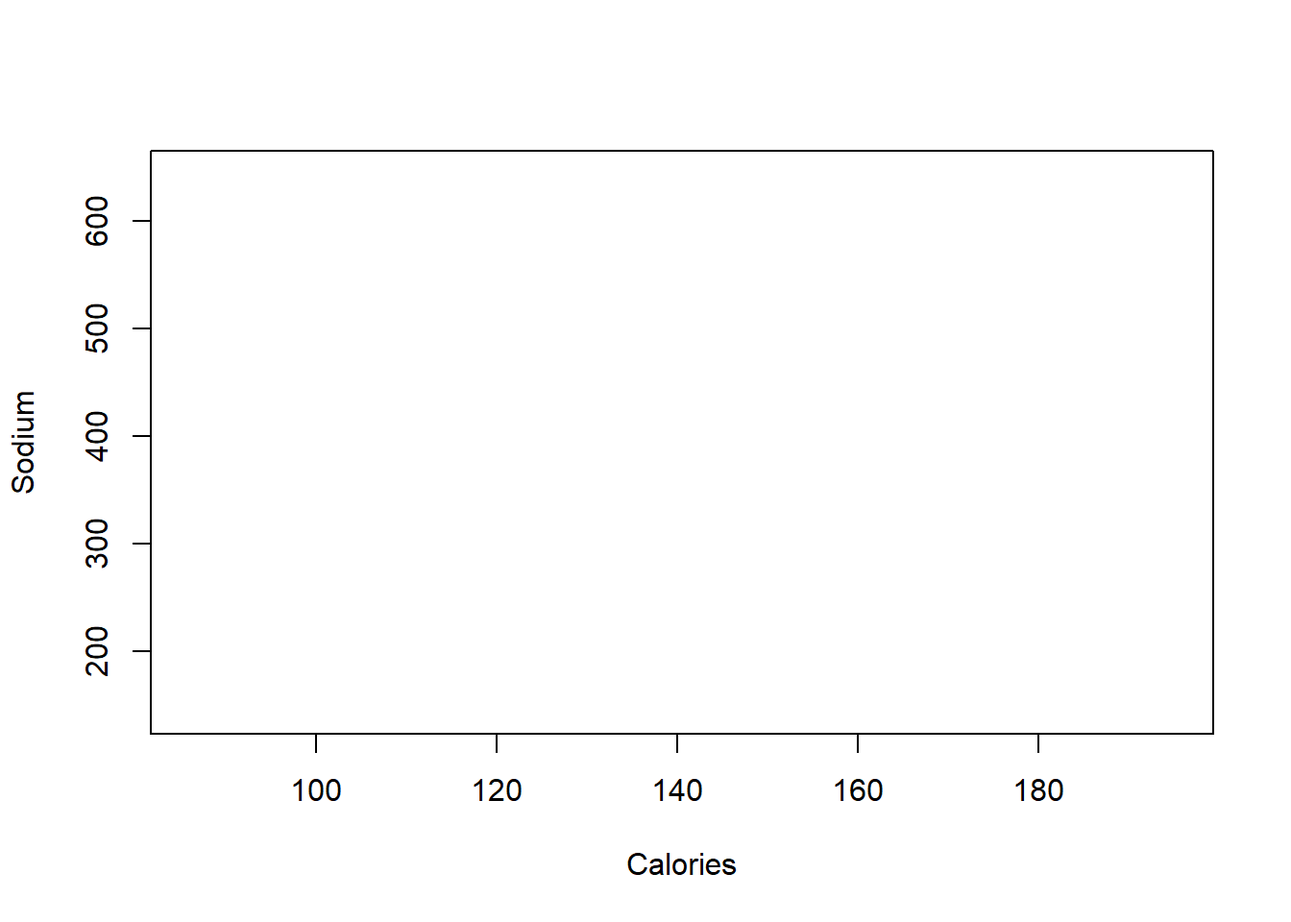
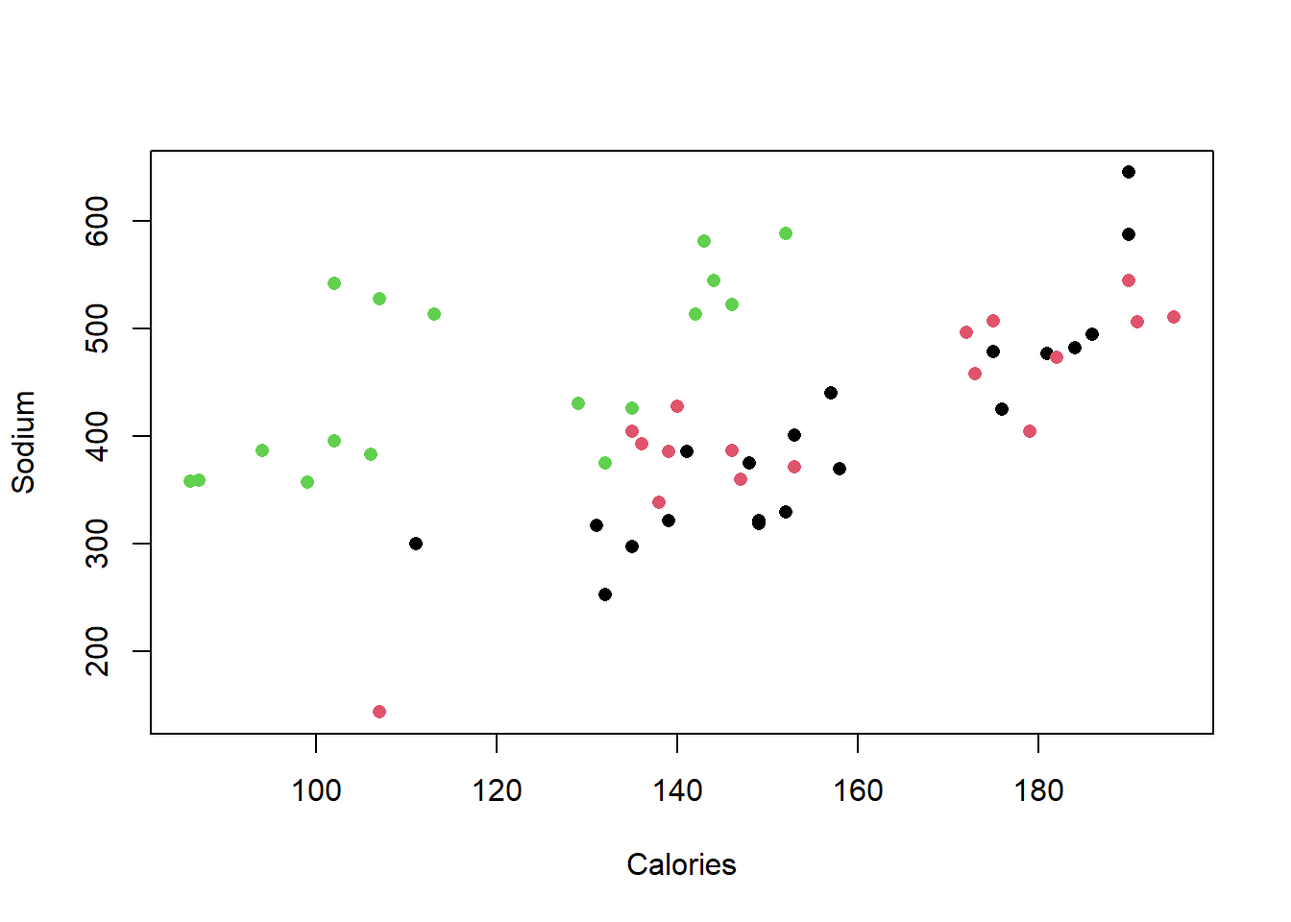
fix factor color in hotdogs

diff --git a/docs/hw_lab_instruction/lab00-hello-class.html b/docs/hw_lab_instruction/lab00-hello-class.html
@@ -179,8 +179,9 @@ with HTTPS</strong> as in the image below). Click on the clipboard icon
 to copy the repo URL.</p></li>
 <li><p>Go to RStudio clone the assignment repository.</p></li>
 </ul>
-<div class="sourceCode" id="cb1"><pre class="sourceCode r"><code class="sourceCode r"><span id="cb1-1"><a href="#cb1-1" aria-hidden="true" tabindex="-1"></a><span class="co"># you need to change this to the right repository and location for you and your local machine</span></span>
-<span id="cb1-2"><a href="#cb1-2" aria-hidden="true" tabindex="-1"></a><span class="co">#usethis::create_from_github(&quot;https://github.com/bst-urmc/test-assignment-1-tanzylove&quot;,destdir=&quot;~/Documents/work/teaching/BST430/&quot;, fork=FALSE)</span></span></code></pre></div>
+<div class="sourceCode" id="cb1"><pre class="sourceCode r"><code class="sourceCode r"><span id="cb1-1"><a href="#cb1-1" aria-hidden="true" tabindex="-1"></a><span class="co">#you need to change this to the right repository and location for you and your local machine</span></span>
+<span id="cb1-2"><a href="#cb1-2" aria-hidden="true" tabindex="-1"></a><span class="co">#usethis::create_from_github(&quot;https://github.com/bst-urmc/test-assignment-1-tanzylove&quot;,</span></span>
+<span id="cb1-3"><a href="#cb1-3" aria-hidden="true" tabindex="-1"></a><span class="co">#   destdir=&quot;~/Documents/work/teaching/BST430/&quot;, fork=FALSE)</span></span></code></pre></div>
 <ul>
 <li>Copy and paste (AM: OK to copy-paste here) the URL of your
 assignment repo into the function</li>
@@ -224,14 +225,9 @@ command into the Console:</p>
 password manager</strong>, you will have to re-enter it, depending on
 your set-up.</p></li>
 </ul>
-</div>
-<div id="warm-up" class="section level1">
-<h1>Warm up</h1>
-<p><label for="tufte-mn-2" class="margin-toggle">⊕</label><input type="checkbox" id="tufte-mn-2" class="margin-toggle"><span
-class="marginnote"><span style="display: block;">NB: you should enter
-your PAT rather than your password, and actually it doesn’t matter what
-you enter for your userid. Your PAT will be cached, so you won’t have to
-keep entering it 😎</span></span></p>
+<!-- ```{marginfigure} -->
+<!-- NB: you should enter your PAT rather than your password, and actually it doesn't matter what you enter for your userid.  Your PAT will be cached, so you won't have to keep entering it 😎 -->
+<!-- ``` -->
 </div>
 <div id="data" class="section level1">
 <h1>Data</h1>
@@ -251,33 +247,36 @@ keep entering it 😎</span></span></p>
 <div class="sourceCode" id="cb11"><pre class="sourceCode r"><code class="sourceCode r"><span id="cb11-1"><a href="#cb11-1" aria-hidden="true" tabindex="-1"></a><span class="fu">cor</span>(Calories, Sodium)</span></code></pre></div>
 <pre><code>## [1] 0.4671387</code></pre>
 <div class="sourceCode" id="cb13"><pre class="sourceCode r"><code class="sourceCode r"><span id="cb13-1"><a href="#cb13-1" aria-hidden="true" tabindex="-1"></a><span class="fu">plot</span>(Calories, Sodium, <span class="at">xlab=</span><span class="st">&quot;Calories&quot;</span>, <span class="at">ylab=</span><span class="st">&quot;Sodium&quot;</span>, </span>
-<span id="cb13-2"><a href="#cb13-2" aria-hidden="true" tabindex="-1"></a>    <span class="at">col=</span><span class="fu">as.numeric</span>(Type), <span class="at">pch=</span><span class="dv">16</span>)</span></code></pre></div>
-<pre><code>## Warning in plot.xy(xy, type, ...): NAs introduced by coercion</code></pre>
+<span id="cb13-2"><a href="#cb13-2" aria-hidden="true" tabindex="-1"></a>    <span class="at">col=</span><span class="fu">factor</span>(Type), <span class="at">pch=</span><span class="dv">16</span>)</span></code></pre></div>
 <p><img src="lab00-hello-class_files/figure-html/hotdogs-2.png" width="672"  /></p>
 <p>Let’s try a different data set. This one about 50 states.</p>
-<div class="sourceCode" id="cb15"><pre class="sourceCode r"><code class="sourceCode r"><span id="cb15-1"><a href="#cb15-1" aria-hidden="true" tabindex="-1"></a>hsgrads<span class="ot">=</span><span class="fu">read.table</span>(<span class="st">&quot;lab00-demonstration/files/raingrad.TXT&quot;</span>, <span class="at">header=</span>T, <span class="at">sep=</span><span class="st">&quot;</span><span class="sc">\t</span><span class="st">&quot;</span>)</span>
-<span id="cb15-2"><a href="#cb15-2" aria-hidden="true" tabindex="-1"></a><span class="fu">attach</span>(hsgrads)</span>
-<span id="cb15-3"><a href="#cb15-3" aria-hidden="true" tabindex="-1"></a></span>
-<span id="cb15-4"><a href="#cb15-4" aria-hidden="true" tabindex="-1"></a><span class="fu">plot</span>(Rain, Education, </span>
-<span id="cb15-5"><a href="#cb15-5" aria-hidden="true" tabindex="-1"></a>      <span class="at">xlab=</span><span class="st">&quot;Rainfall&quot;</span>, <span class="at">ylab=</span><span class="st">&quot;Average Grade Level&quot;</span>, <span class="at">pch=</span><span class="dv">16</span>)</span></code></pre></div>
+<div class="sourceCode" id="cb14"><pre class="sourceCode r"><code class="sourceCode r"><span id="cb14-1"><a href="#cb14-1" aria-hidden="true" tabindex="-1"></a>hsgrads<span class="ot">=</span><span class="fu">read.table</span>(<span class="st">&quot;lab00-demonstration/files/raingrad.TXT&quot;</span>, <span class="at">header=</span>T, <span class="at">sep=</span><span class="st">&quot;</span><span class="sc">\t</span><span class="st">&quot;</span>)</span>
+<span id="cb14-2"><a href="#cb14-2" aria-hidden="true" tabindex="-1"></a><span class="fu">attach</span>(hsgrads)</span>
+<span id="cb14-3"><a href="#cb14-3" aria-hidden="true" tabindex="-1"></a></span>
+<span id="cb14-4"><a href="#cb14-4" aria-hidden="true" tabindex="-1"></a><span class="fu">plot</span>(Rain, Education, </span>
+<span id="cb14-5"><a href="#cb14-5" aria-hidden="true" tabindex="-1"></a>      <span class="at">xlab=</span><span class="st">&quot;Rainfall&quot;</span>, <span class="at">ylab=</span><span class="st">&quot;Average Grade Level&quot;</span>, <span class="at">pch=</span><span class="dv">16</span>)</span></code></pre></div>
 <p><img src="lab00-hello-class_files/figure-html/raingrad-1.png" width="672"  /></p>
-<div class="sourceCode" id="cb16"><pre class="sourceCode r"><code class="sourceCode r"><span id="cb16-1"><a href="#cb16-1" aria-hidden="true" tabindex="-1"></a><span class="fu">cor</span>(Rain, Education)</span></code></pre></div>
+<div class="sourceCode" id="cb15"><pre class="sourceCode r"><code class="sourceCode r"><span id="cb15-1"><a href="#cb15-1" aria-hidden="true" tabindex="-1"></a><span class="fu">cor</span>(Rain, Education)</span></code></pre></div>
 <pre><code>## [1] -0.4758416</code></pre>
+<div class="sourceCode" id="cb17"><pre class="sourceCode r"><code class="sourceCode r"><span id="cb17-1"><a href="#cb17-1" aria-hidden="true" tabindex="-1"></a><span class="fu">args</span>(cor)</span></code></pre></div>
+<pre><code>## function (x, y = NULL, use = &quot;everything&quot;, method = c(&quot;pearson&quot;, 
+##     &quot;kendall&quot;, &quot;spearman&quot;)) 
+## NULL</code></pre>
 <p>And one final set of flying times.</p>
-<div class="sourceCode" id="cb18"><pre class="sourceCode r"><code class="sourceCode r"><span id="cb18-1"><a href="#cb18-1" aria-hidden="true" tabindex="-1"></a>delta<span class="ot">=</span><span class="fu">read.table</span>(<span class="st">&quot;lab00-demonstration/files/Deltafly.TXT&quot;</span>, <span class="at">header=</span>T)</span>
-<span id="cb18-2"><a href="#cb18-2" aria-hidden="true" tabindex="-1"></a><span class="fu">attach</span>(delta)</span>
-<span id="cb18-3"><a href="#cb18-3" aria-hidden="true" tabindex="-1"></a></span>
-<span id="cb18-4"><a href="#cb18-4" aria-hidden="true" tabindex="-1"></a><span class="fu">hist</span>(Miles, <span class="at">xlab=</span><span class="st">&quot;Distance (Miles)&quot;</span>)</span></code></pre></div>
+<div class="sourceCode" id="cb19"><pre class="sourceCode r"><code class="sourceCode r"><span id="cb19-1"><a href="#cb19-1" aria-hidden="true" tabindex="-1"></a>delta<span class="ot">=</span><span class="fu">read.table</span>(<span class="st">&quot;lab00-demonstration/files/Deltafly.TXT&quot;</span>, <span class="at">header=</span>T)</span>
+<span id="cb19-2"><a href="#cb19-2" aria-hidden="true" tabindex="-1"></a><span class="fu">attach</span>(delta)</span>
+<span id="cb19-3"><a href="#cb19-3" aria-hidden="true" tabindex="-1"></a></span>
+<span id="cb19-4"><a href="#cb19-4" aria-hidden="true" tabindex="-1"></a><span class="fu">hist</span>(Miles, <span class="at">xlab=</span><span class="st">&quot;Distance (Miles)&quot;</span>)</span></code></pre></div>
 <p><img src="lab00-hello-class_files/figure-html/delta-1.png" width="672"  /></p>
-<div class="sourceCode" id="cb19"><pre class="sourceCode r"><code class="sourceCode r"><span id="cb19-1"><a href="#cb19-1" aria-hidden="true" tabindex="-1"></a><span class="fu">hist</span>(DepHr, <span class="at">main=</span><span class="cn">NULL</span>, <span class="at">xlab=</span><span class="st">&quot;Departure Hour (24hour)&quot;</span>, <span class="at">xlim=</span><span class="fu">c</span>(<span class="dv">0</span>,<span class="dv">24</span>))</span></code></pre></div>
+<div class="sourceCode" id="cb20"><pre class="sourceCode r"><code class="sourceCode r"><span id="cb20-1"><a href="#cb20-1" aria-hidden="true" tabindex="-1"></a><span class="fu">hist</span>(DepHr, <span class="at">main=</span><span class="cn">NULL</span>, <span class="at">xlab=</span><span class="st">&quot;Departure Hour (24hour)&quot;</span>, <span class="at">xlim=</span><span class="fu">c</span>(<span class="dv">0</span>,<span class="dv">24</span>))</span></code></pre></div>
 <p><img src="lab00-hello-class_files/figure-html/delta-2.png" width="672"  /></p>
-<div class="sourceCode" id="cb20"><pre class="sourceCode r"><code class="sourceCode r"><span id="cb20-1"><a href="#cb20-1" aria-hidden="true" tabindex="-1"></a><span class="fu">hist</span>(TravTime, <span class="at">main=</span><span class="cn">NULL</span>, <span class="at">xlab=</span><span class="st">&quot;Travel Time (Hours)&quot;</span>)</span></code></pre></div>
+<div class="sourceCode" id="cb21"><pre class="sourceCode r"><code class="sourceCode r"><span id="cb21-1"><a href="#cb21-1" aria-hidden="true" tabindex="-1"></a><span class="fu">hist</span>(TravTime, <span class="at">main=</span><span class="cn">NULL</span>, <span class="at">xlab=</span><span class="st">&quot;Travel Time (Hours)&quot;</span>)</span></code></pre></div>
 <p><img src="lab00-hello-class_files/figure-html/delta-3.png" width="672"  /></p>
-<div class="sourceCode" id="cb21"><pre class="sourceCode r"><code class="sourceCode r"><span id="cb21-1"><a href="#cb21-1" aria-hidden="true" tabindex="-1"></a><span class="fu">plot</span>(Miles, TravTime, <span class="at">xlab=</span><span class="st">&quot;Distance (Miles)&quot;</span>, <span class="at">ylab=</span><span class="st">&quot;Travel Time (Hours)&quot;</span>)</span>
-<span id="cb21-2"><a href="#cb21-2" aria-hidden="true" tabindex="-1"></a><span class="fu">cor</span>(Miles, TravTime)</span></code></pre></div>
+<div class="sourceCode" id="cb22"><pre class="sourceCode r"><code class="sourceCode r"><span id="cb22-1"><a href="#cb22-1" aria-hidden="true" tabindex="-1"></a><span class="fu">plot</span>(Miles, TravTime, <span class="at">xlab=</span><span class="st">&quot;Distance (Miles)&quot;</span>, <span class="at">ylab=</span><span class="st">&quot;Travel Time (Hours)&quot;</span>)</span>
+<span id="cb22-2"><a href="#cb22-2" aria-hidden="true" tabindex="-1"></a><span class="fu">cor</span>(Miles, TravTime)</span></code></pre></div>
 <pre><code>## [1] 0.9850281</code></pre>
-<div class="sourceCode" id="cb23"><pre class="sourceCode r"><code class="sourceCode r"><span id="cb23-1"><a href="#cb23-1" aria-hidden="true" tabindex="-1"></a>reg.line<span class="ot">=</span><span class="fu">lm</span>(TravTime<span class="sc">~</span>Miles) <span class="co">#calcuate the regression line for the Delta data</span></span>
-<span id="cb23-2"><a href="#cb23-2" aria-hidden="true" tabindex="-1"></a><span class="fu">summary</span>(reg.line)</span></code></pre></div>
+<div class="sourceCode" id="cb24"><pre class="sourceCode r"><code class="sourceCode r"><span id="cb24-1"><a href="#cb24-1" aria-hidden="true" tabindex="-1"></a>reg.line<span class="ot">=</span><span class="fu">lm</span>(TravTime<span class="sc">~</span>Miles) <span class="co">#calcuate the regression line for the Delta data</span></span>
+<span id="cb24-2"><a href="#cb24-2" aria-hidden="true" tabindex="-1"></a><span class="fu">summary</span>(reg.line)</span></code></pre></div>
 <pre><code>## 
 ## Call:
 ## lm(formula = TravTime ~ Miles)
@@ -294,17 +293,23 @@ keep entering it 😎</span></span></p>
 ## Residual standard error: 0.2662 on 98 degrees of freedom
 ## Multiple R-squared:  0.9703, Adjusted R-squared:   0.97 
 ## F-statistic:  3199 on 1 and 98 DF,  p-value: &lt; 2.2e-16</code></pre>
-<div class="sourceCode" id="cb25"><pre class="sourceCode r"><code class="sourceCode r"><span id="cb25-1"><a href="#cb25-1" aria-hidden="true" tabindex="-1"></a><span class="fu">abline</span>(reg.line, <span class="at">col=</span><span class="dv">2</span>, <span class="at">lwd=</span><span class="dv">2</span>)</span></code></pre></div>
+<div class="sourceCode" id="cb26"><pre class="sourceCode r"><code class="sourceCode r"><span id="cb26-1"><a href="#cb26-1" aria-hidden="true" tabindex="-1"></a><span class="fu">abline</span>(reg.line, <span class="at">col=</span><span class="dv">2</span>, <span class="at">lwd=</span><span class="dv">2</span>)</span></code></pre></div>
 <p><img src="lab00-hello-class_files/figure-html/delta-4.png" width="672"  /></p>
-<div class="sourceCode" id="cb26"><pre class="sourceCode r"><code class="sourceCode r"><span id="cb26-1"><a href="#cb26-1" aria-hidden="true" tabindex="-1"></a><span class="fu">par</span>(<span class="at">mfrow=</span><span class="fu">c</span>(<span class="dv">1</span>,<span class="dv">2</span>)) <span class="co">#make both plots appear together</span></span>
-<span id="cb26-2"><a href="#cb26-2" aria-hidden="true" tabindex="-1"></a><span class="fu">plot</span>(reg.line, <span class="at">which=</span><span class="dv">1</span><span class="sc">:</span><span class="dv">2</span>)  <span class="co"># plot residual assumption plots</span></span></code></pre></div>
+<div class="sourceCode" id="cb27"><pre class="sourceCode r"><code class="sourceCode r"><span id="cb27-1"><a href="#cb27-1" aria-hidden="true" tabindex="-1"></a><span class="fu">par</span>(<span class="at">mfrow=</span><span class="fu">c</span>(<span class="dv">1</span>,<span class="dv">2</span>)) <span class="co">#make both plots appear together</span></span>
+<span id="cb27-2"><a href="#cb27-2" aria-hidden="true" tabindex="-1"></a><span class="fu">plot</span>(reg.line, <span class="at">which=</span><span class="dv">1</span><span class="sc">:</span><span class="dv">2</span>)  <span class="co"># plot residual assumption plots</span></span></code></pre></div>
 <p><img src="lab00-hello-class_files/figure-html/delta-5.png" width="672"  /></p>
-<div class="sourceCode" id="cb27"><pre class="sourceCode r"><code class="sourceCode r"><span id="cb27-1"><a href="#cb27-1" aria-hidden="true" tabindex="-1"></a><span class="fu">par</span>(<span class="at">mfrow=</span><span class="fu">c</span>(<span class="dv">1</span>,<span class="dv">1</span>)) <span class="co">#make only one plot appear at a time</span></span></code></pre></div>
+<div class="sourceCode" id="cb28"><pre class="sourceCode r"><code class="sourceCode r"><span id="cb28-1"><a href="#cb28-1" aria-hidden="true" tabindex="-1"></a><span class="fu">par</span>(<span class="at">mfrow=</span><span class="fu">c</span>(<span class="dv">1</span>,<span class="dv">1</span>)) <span class="co">#make only one plot appear at a time</span></span></code></pre></div>
+<div id="make-a-change" class="section level2">
+<h2>Make a change:</h2>
+<p>Make a new file in RStudio or change the name in the header of this
+“lab00-hello-class.Rmd” file.</p>
+</div>
 <div id="commiting-changes" class="section level2">
 <h2>Commiting changes:</h2>
 <p>Then Go to the Git pane in your RStudio.</p>
-<p>If you have made changes to your Rmd file, you should see it listed
-here. Click on it to select it in this list and then click on
+<p>If you created a new file, you shoud see it’s name here. If you have
+made changes to your Rmd file, you should see it listed here. Click on
+the change to select it in this list and then click on
 <strong>Diff</strong>. This shows you the <em>diff</em>erence between
 the last committed state of the document and its current state that
 includes your changes. If you’re happy with these changes, write “Update

diff --git a/hw_lab_instruction/lab00-hello-class.html b/hw_lab_instruction/lab00-hello-class.html
@@ -179,8 +179,9 @@ with HTTPS</strong> as in the image below). Click on the clipboard icon
 to copy the repo URL.</p></li>
 <li><p>Go to RStudio clone the assignment repository.</p></li>
 </ul>
-<div class="sourceCode" id="cb1"><pre class="sourceCode r"><code class="sourceCode r"><span id="cb1-1"><a href="#cb1-1" aria-hidden="true" tabindex="-1"></a><span class="co"># you need to change this to the right repository and location for you and your local machine</span></span>
-<span id="cb1-2"><a href="#cb1-2" aria-hidden="true" tabindex="-1"></a><span class="co">#usethis::create_from_github(&quot;https://github.com/bst-urmc/test-assignment-1-tanzylove&quot;,destdir=&quot;~/Documents/work/teaching/BST430/&quot;, fork=FALSE)</span></span></code></pre></div>
+<div class="sourceCode" id="cb1"><pre class="sourceCode r"><code class="sourceCode r"><span id="cb1-1"><a href="#cb1-1" aria-hidden="true" tabindex="-1"></a><span class="co">#you need to change this to the right repository and location for you and your local machine</span></span>
+<span id="cb1-2"><a href="#cb1-2" aria-hidden="true" tabindex="-1"></a><span class="co">#usethis::create_from_github(&quot;https://github.com/bst-urmc/test-assignment-1-tanzylove&quot;,</span></span>
+<span id="cb1-3"><a href="#cb1-3" aria-hidden="true" tabindex="-1"></a><span class="co">#   destdir=&quot;~/Documents/work/teaching/BST430/&quot;, fork=FALSE)</span></span></code></pre></div>
 <ul>
 <li>Copy and paste (AM: OK to copy-paste here) the URL of your
 assignment repo into the function</li>
@@ -224,14 +225,9 @@ command into the Console:</p>
 password manager</strong>, you will have to re-enter it, depending on
 your set-up.</p></li>
 </ul>
-</div>
-<div id="warm-up" class="section level1">
-<h1>Warm up</h1>
-<p><label for="tufte-mn-2" class="margin-toggle">⊕</label><input type="checkbox" id="tufte-mn-2" class="margin-toggle"><span
-class="marginnote"><span style="display: block;">NB: you should enter
-your PAT rather than your password, and actually it doesn’t matter what
-you enter for your userid. Your PAT will be cached, so you won’t have to
-keep entering it 😎</span></span></p>
+<!-- ```{marginfigure} -->
+<!-- NB: you should enter your PAT rather than your password, and actually it doesn't matter what you enter for your userid.  Your PAT will be cached, so you won't have to keep entering it 😎 -->
+<!-- ``` -->
 </div>
 <div id="data" class="section level1">
 <h1>Data</h1>
@@ -251,33 +247,36 @@ keep entering it 😎</span></span></p>
 <div class="sourceCode" id="cb11"><pre class="sourceCode r"><code class="sourceCode r"><span id="cb11-1"><a href="#cb11-1" aria-hidden="true" tabindex="-1"></a><span class="fu">cor</span>(Calories, Sodium)</span></code></pre></div>
 <pre><code>## [1] 0.4671387</code></pre>
 <div class="sourceCode" id="cb13"><pre class="sourceCode r"><code class="sourceCode r"><span id="cb13-1"><a href="#cb13-1" aria-hidden="true" tabindex="-1"></a><span class="fu">plot</span>(Calories, Sodium, <span class="at">xlab=</span><span class="st">&quot;Calories&quot;</span>, <span class="at">ylab=</span><span class="st">&quot;Sodium&quot;</span>, </span>
-<span id="cb13-2"><a href="#cb13-2" aria-hidden="true" tabindex="-1"></a>    <span class="at">col=</span><span class="fu">as.numeric</span>(Type), <span class="at">pch=</span><span class="dv">16</span>)</span></code></pre></div>
-<pre><code>## Warning in plot.xy(xy, type, ...): NAs introduced by coercion</code></pre>
+<span id="cb13-2"><a href="#cb13-2" aria-hidden="true" tabindex="-1"></a>    <span class="at">col=</span><span class="fu">factor</span>(Type), <span class="at">pch=</span><span class="dv">16</span>)</span></code></pre></div>
 <p><img src="lab00-hello-class_files/figure-html/hotdogs-2.png" width="672"  /></p>
 <p>Let’s try a different data set. This one about 50 states.</p>
-<div class="sourceCode" id="cb15"><pre class="sourceCode r"><code class="sourceCode r"><span id="cb15-1"><a href="#cb15-1" aria-hidden="true" tabindex="-1"></a>hsgrads<span class="ot">=</span><span class="fu">read.table</span>(<span class="st">&quot;lab00-demonstration/files/raingrad.TXT&quot;</span>, <span class="at">header=</span>T, <span class="at">sep=</span><span class="st">&quot;</span><span class="sc">\t</span><span class="st">&quot;</span>)</span>
-<span id="cb15-2"><a href="#cb15-2" aria-hidden="true" tabindex="-1"></a><span class="fu">attach</span>(hsgrads)</span>
-<span id="cb15-3"><a href="#cb15-3" aria-hidden="true" tabindex="-1"></a></span>
-<span id="cb15-4"><a href="#cb15-4" aria-hidden="true" tabindex="-1"></a><span class="fu">plot</span>(Rain, Education, </span>
-<span id="cb15-5"><a href="#cb15-5" aria-hidden="true" tabindex="-1"></a>      <span class="at">xlab=</span><span class="st">&quot;Rainfall&quot;</span>, <span class="at">ylab=</span><span class="st">&quot;Average Grade Level&quot;</span>, <span class="at">pch=</span><span class="dv">16</span>)</span></code></pre></div>
+<div class="sourceCode" id="cb14"><pre class="sourceCode r"><code class="sourceCode r"><span id="cb14-1"><a href="#cb14-1" aria-hidden="true" tabindex="-1"></a>hsgrads<span class="ot">=</span><span class="fu">read.table</span>(<span class="st">&quot;lab00-demonstration/files/raingrad.TXT&quot;</span>, <span class="at">header=</span>T, <span class="at">sep=</span><span class="st">&quot;</span><span class="sc">\t</span><span class="st">&quot;</span>)</span>
+<span id="cb14-2"><a href="#cb14-2" aria-hidden="true" tabindex="-1"></a><span class="fu">attach</span>(hsgrads)</span>
+<span id="cb14-3"><a href="#cb14-3" aria-hidden="true" tabindex="-1"></a></span>
+<span id="cb14-4"><a href="#cb14-4" aria-hidden="true" tabindex="-1"></a><span class="fu">plot</span>(Rain, Education, </span>
+<span id="cb14-5"><a href="#cb14-5" aria-hidden="true" tabindex="-1"></a>      <span class="at">xlab=</span><span class="st">&quot;Rainfall&quot;</span>, <span class="at">ylab=</span><span class="st">&quot;Average Grade Level&quot;</span>, <span class="at">pch=</span><span class="dv">16</span>)</span></code></pre></div>
 <p><img src="lab00-hello-class_files/figure-html/raingrad-1.png" width="672"  /></p>
-<div class="sourceCode" id="cb16"><pre class="sourceCode r"><code class="sourceCode r"><span id="cb16-1"><a href="#cb16-1" aria-hidden="true" tabindex="-1"></a><span class="fu">cor</span>(Rain, Education)</span></code></pre></div>
+<div class="sourceCode" id="cb15"><pre class="sourceCode r"><code class="sourceCode r"><span id="cb15-1"><a href="#cb15-1" aria-hidden="true" tabindex="-1"></a><span class="fu">cor</span>(Rain, Education)</span></code></pre></div>
 <pre><code>## [1] -0.4758416</code></pre>
+<div class="sourceCode" id="cb17"><pre class="sourceCode r"><code class="sourceCode r"><span id="cb17-1"><a href="#cb17-1" aria-hidden="true" tabindex="-1"></a><span class="fu">args</span>(cor)</span></code></pre></div>
+<pre><code>## function (x, y = NULL, use = &quot;everything&quot;, method = c(&quot;pearson&quot;, 
+##     &quot;kendall&quot;, &quot;spearman&quot;)) 
+## NULL</code></pre>
 <p>And one final set of flying times.</p>
-<div class="sourceCode" id="cb18"><pre class="sourceCode r"><code class="sourceCode r"><span id="cb18-1"><a href="#cb18-1" aria-hidden="true" tabindex="-1"></a>delta<span class="ot">=</span><span class="fu">read.table</span>(<span class="st">&quot;lab00-demonstration/files/Deltafly.TXT&quot;</span>, <span class="at">header=</span>T)</span>
-<span id="cb18-2"><a href="#cb18-2" aria-hidden="true" tabindex="-1"></a><span class="fu">attach</span>(delta)</span>
-<span id="cb18-3"><a href="#cb18-3" aria-hidden="true" tabindex="-1"></a></span>
-<span id="cb18-4"><a href="#cb18-4" aria-hidden="true" tabindex="-1"></a><span class="fu">hist</span>(Miles, <span class="at">xlab=</span><span class="st">&quot;Distance (Miles)&quot;</span>)</span></code></pre></div>
+<div class="sourceCode" id="cb19"><pre class="sourceCode r"><code class="sourceCode r"><span id="cb19-1"><a href="#cb19-1" aria-hidden="true" tabindex="-1"></a>delta<span class="ot">=</span><span class="fu">read.table</span>(<span class="st">&quot;lab00-demonstration/files/Deltafly.TXT&quot;</span>, <span class="at">header=</span>T)</span>
+<span id="cb19-2"><a href="#cb19-2" aria-hidden="true" tabindex="-1"></a><span class="fu">attach</span>(delta)</span>
+<span id="cb19-3"><a href="#cb19-3" aria-hidden="true" tabindex="-1"></a></span>
+<span id="cb19-4"><a href="#cb19-4" aria-hidden="true" tabindex="-1"></a><span class="fu">hist</span>(Miles, <span class="at">xlab=</span><span class="st">&quot;Distance (Miles)&quot;</span>)</span></code></pre></div>
 <p><img src="lab00-hello-class_files/figure-html/delta-1.png" width="672"  /></p>
-<div class="sourceCode" id="cb19"><pre class="sourceCode r"><code class="sourceCode r"><span id="cb19-1"><a href="#cb19-1" aria-hidden="true" tabindex="-1"></a><span class="fu">hist</span>(DepHr, <span class="at">main=</span><span class="cn">NULL</span>, <span class="at">xlab=</span><span class="st">&quot;Departure Hour (24hour)&quot;</span>, <span class="at">xlim=</span><span class="fu">c</span>(<span class="dv">0</span>,<span class="dv">24</span>))</span></code></pre></div>
+<div class="sourceCode" id="cb20"><pre class="sourceCode r"><code class="sourceCode r"><span id="cb20-1"><a href="#cb20-1" aria-hidden="true" tabindex="-1"></a><span class="fu">hist</span>(DepHr, <span class="at">main=</span><span class="cn">NULL</span>, <span class="at">xlab=</span><span class="st">&quot;Departure Hour (24hour)&quot;</span>, <span class="at">xlim=</span><span class="fu">c</span>(<span class="dv">0</span>,<span class="dv">24</span>))</span></code></pre></div>
 <p><img src="lab00-hello-class_files/figure-html/delta-2.png" width="672"  /></p>
-<div class="sourceCode" id="cb20"><pre class="sourceCode r"><code class="sourceCode r"><span id="cb20-1"><a href="#cb20-1" aria-hidden="true" tabindex="-1"></a><span class="fu">hist</span>(TravTime, <span class="at">main=</span><span class="cn">NULL</span>, <span class="at">xlab=</span><span class="st">&quot;Travel Time (Hours)&quot;</span>)</span></code></pre></div>
+<div class="sourceCode" id="cb21"><pre class="sourceCode r"><code class="sourceCode r"><span id="cb21-1"><a href="#cb21-1" aria-hidden="true" tabindex="-1"></a><span class="fu">hist</span>(TravTime, <span class="at">main=</span><span class="cn">NULL</span>, <span class="at">xlab=</span><span class="st">&quot;Travel Time (Hours)&quot;</span>)</span></code></pre></div>
 <p><img src="lab00-hello-class_files/figure-html/delta-3.png" width="672"  /></p>
-<div class="sourceCode" id="cb21"><pre class="sourceCode r"><code class="sourceCode r"><span id="cb21-1"><a href="#cb21-1" aria-hidden="true" tabindex="-1"></a><span class="fu">plot</span>(Miles, TravTime, <span class="at">xlab=</span><span class="st">&quot;Distance (Miles)&quot;</span>, <span class="at">ylab=</span><span class="st">&quot;Travel Time (Hours)&quot;</span>)</span>
-<span id="cb21-2"><a href="#cb21-2" aria-hidden="true" tabindex="-1"></a><span class="fu">cor</span>(Miles, TravTime)</span></code></pre></div>
+<div class="sourceCode" id="cb22"><pre class="sourceCode r"><code class="sourceCode r"><span id="cb22-1"><a href="#cb22-1" aria-hidden="true" tabindex="-1"></a><span class="fu">plot</span>(Miles, TravTime, <span class="at">xlab=</span><span class="st">&quot;Distance (Miles)&quot;</span>, <span class="at">ylab=</span><span class="st">&quot;Travel Time (Hours)&quot;</span>)</span>
+<span id="cb22-2"><a href="#cb22-2" aria-hidden="true" tabindex="-1"></a><span class="fu">cor</span>(Miles, TravTime)</span></code></pre></div>
 <pre><code>## [1] 0.9850281</code></pre>
-<div class="sourceCode" id="cb23"><pre class="sourceCode r"><code class="sourceCode r"><span id="cb23-1"><a href="#cb23-1" aria-hidden="true" tabindex="-1"></a>reg.line<span class="ot">=</span><span class="fu">lm</span>(TravTime<span class="sc">~</span>Miles) <span class="co">#calcuate the regression line for the Delta data</span></span>
-<span id="cb23-2"><a href="#cb23-2" aria-hidden="true" tabindex="-1"></a><span class="fu">summary</span>(reg.line)</span></code></pre></div>
+<div class="sourceCode" id="cb24"><pre class="sourceCode r"><code class="sourceCode r"><span id="cb24-1"><a href="#cb24-1" aria-hidden="true" tabindex="-1"></a>reg.line<span class="ot">=</span><span class="fu">lm</span>(TravTime<span class="sc">~</span>Miles) <span class="co">#calcuate the regression line for the Delta data</span></span>
+<span id="cb24-2"><a href="#cb24-2" aria-hidden="true" tabindex="-1"></a><span class="fu">summary</span>(reg.line)</span></code></pre></div>
 <pre><code>## 
 ## Call:
 ## lm(formula = TravTime ~ Miles)
@@ -294,17 +293,23 @@ keep entering it 😎</span></span></p>
 ## Residual standard error: 0.2662 on 98 degrees of freedom
 ## Multiple R-squared:  0.9703, Adjusted R-squared:   0.97 
 ## F-statistic:  3199 on 1 and 98 DF,  p-value: &lt; 2.2e-16</code></pre>
-<div class="sourceCode" id="cb25"><pre class="sourceCode r"><code class="sourceCode r"><span id="cb25-1"><a href="#cb25-1" aria-hidden="true" tabindex="-1"></a><span class="fu">abline</span>(reg.line, <span class="at">col=</span><span class="dv">2</span>, <span class="at">lwd=</span><span class="dv">2</span>)</span></code></pre></div>
+<div class="sourceCode" id="cb26"><pre class="sourceCode r"><code class="sourceCode r"><span id="cb26-1"><a href="#cb26-1" aria-hidden="true" tabindex="-1"></a><span class="fu">abline</span>(reg.line, <span class="at">col=</span><span class="dv">2</span>, <span class="at">lwd=</span><span class="dv">2</span>)</span></code></pre></div>
 <p><img src="lab00-hello-class_files/figure-html/delta-4.png" width="672"  /></p>
-<div class="sourceCode" id="cb26"><pre class="sourceCode r"><code class="sourceCode r"><span id="cb26-1"><a href="#cb26-1" aria-hidden="true" tabindex="-1"></a><span class="fu">par</span>(<span class="at">mfrow=</span><span class="fu">c</span>(<span class="dv">1</span>,<span class="dv">2</span>)) <span class="co">#make both plots appear together</span></span>
-<span id="cb26-2"><a href="#cb26-2" aria-hidden="true" tabindex="-1"></a><span class="fu">plot</span>(reg.line, <span class="at">which=</span><span class="dv">1</span><span class="sc">:</span><span class="dv">2</span>)  <span class="co"># plot residual assumption plots</span></span></code></pre></div>
+<div class="sourceCode" id="cb27"><pre class="sourceCode r"><code class="sourceCode r"><span id="cb27-1"><a href="#cb27-1" aria-hidden="true" tabindex="-1"></a><span class="fu">par</span>(<span class="at">mfrow=</span><span class="fu">c</span>(<span class="dv">1</span>,<span class="dv">2</span>)) <span class="co">#make both plots appear together</span></span>
+<span id="cb27-2"><a href="#cb27-2" aria-hidden="true" tabindex="-1"></a><span class="fu">plot</span>(reg.line, <span class="at">which=</span><span class="dv">1</span><span class="sc">:</span><span class="dv">2</span>)  <span class="co"># plot residual assumption plots</span></span></code></pre></div>
 <p><img src="lab00-hello-class_files/figure-html/delta-5.png" width="672"  /></p>
-<div class="sourceCode" id="cb27"><pre class="sourceCode r"><code class="sourceCode r"><span id="cb27-1"><a href="#cb27-1" aria-hidden="true" tabindex="-1"></a><span class="fu">par</span>(<span class="at">mfrow=</span><span class="fu">c</span>(<span class="dv">1</span>,<span class="dv">1</span>)) <span class="co">#make only one plot appear at a time</span></span></code></pre></div>
+<div class="sourceCode" id="cb28"><pre class="sourceCode r"><code class="sourceCode r"><span id="cb28-1"><a href="#cb28-1" aria-hidden="true" tabindex="-1"></a><span class="fu">par</span>(<span class="at">mfrow=</span><span class="fu">c</span>(<span class="dv">1</span>,<span class="dv">1</span>)) <span class="co">#make only one plot appear at a time</span></span></code></pre></div>
+<div id="make-a-change" class="section level2">
+<h2>Make a change:</h2>
+<p>Make a new file in RStudio or change the name in the header of this
+“lab00-hello-class.Rmd” file.</p>
+</div>
 <div id="commiting-changes" class="section level2">
 <h2>Commiting changes:</h2>
 <p>Then Go to the Git pane in your RStudio.</p>
-<p>If you have made changes to your Rmd file, you should see it listed
-here. Click on it to select it in this list and then click on
+<p>If you created a new file, you shoud see it’s name here. If you have
+made changes to your Rmd file, you should see it listed here. Click on
+the change to select it in this list and then click on
 <strong>Diff</strong>. This shows you the <em>diff</em>erence between
 the last committed state of the document and its current state that
 includes your changes. If you’re happy with these changes, write “Update
